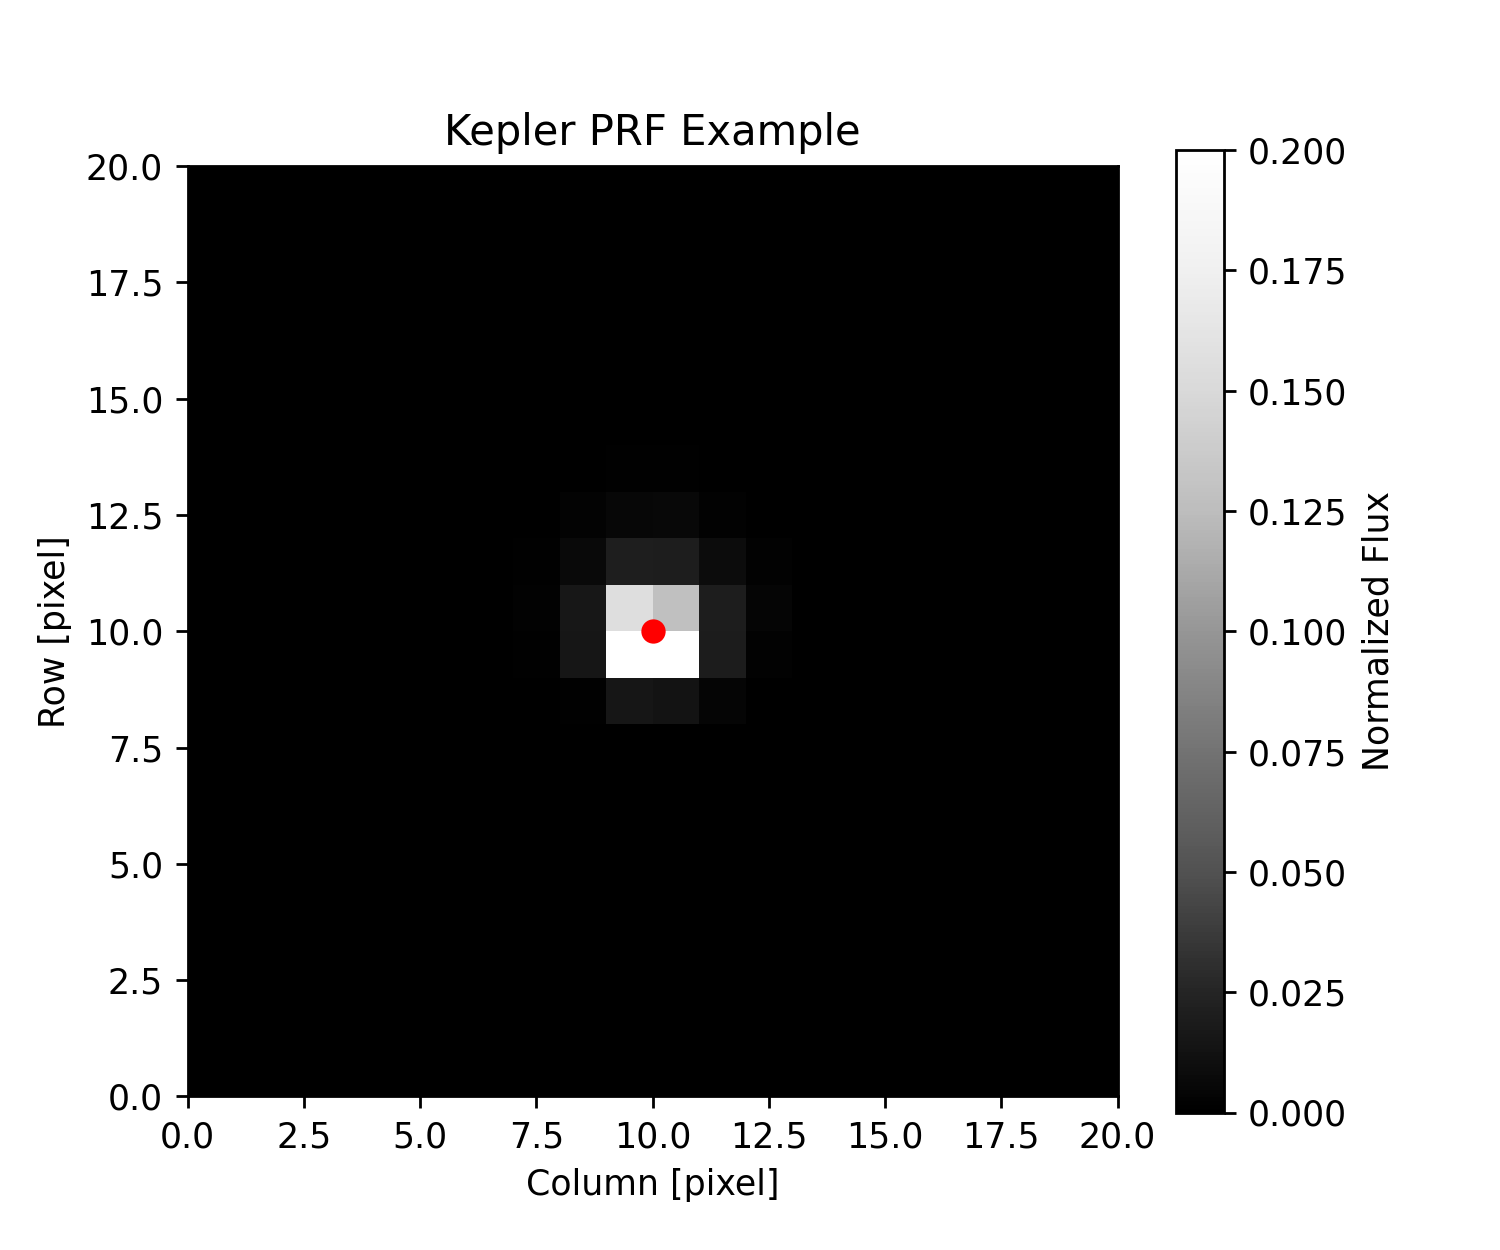
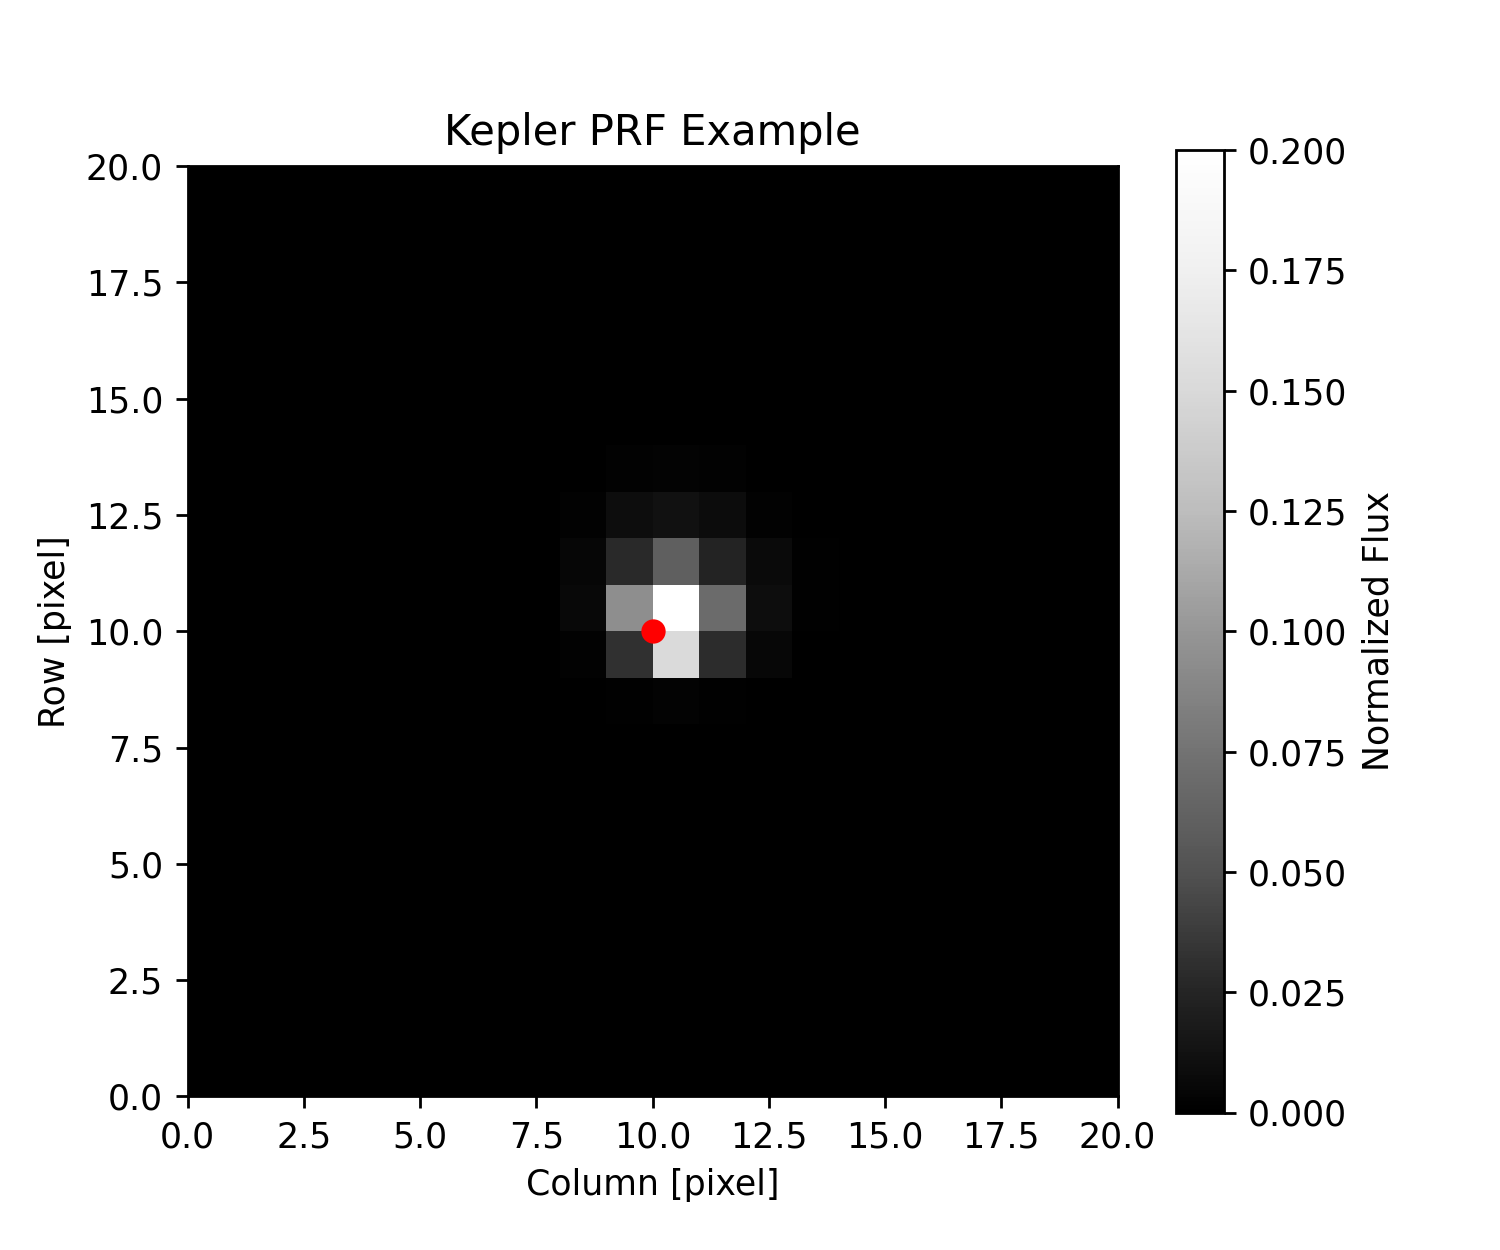
update pixel position

Changed region(s): [[0.3987, 0.4056, 0.5213, 0.5616]]

diff --git a/tests/test_prf.py b/tests/test_prf.py
@@ -19,8 +19,8 @@ def test_prfs():
         shape = (21, 21)
         ar = prf.evaluate(targets=targets, origin=origin, shape=shape)
         R, C = np.mgrid[: ar.shape[1], : ar.shape[2]] + 0.5
-        assert np.isclose(np.average(R.ravel(), weights=ar[0].ravel()), 10, atol=0.05)
-        assert np.isclose(np.average(C.ravel(), weights=ar[0].ravel()), 10, atol=0.05)
+        assert np.isclose(np.average(R.ravel(), weights=ar[0].ravel()), 10.5, atol=0.05)
+        assert np.isclose(np.average(C.ravel(), weights=ar[0].ravel()), 10.5, atol=0.05)
         assert np.isclose(ar[0].sum(), 1)
         assert ar.shape == (1, *shape)
         if not is_github_actions():
@@ -34,7 +34,7 @@ def test_prfs():
                 vmax=0.2,
             )
             cbar = plt.colorbar(im, ax=ax)
-            ax.scatter(np.asarray(targets)[:, 1], np.asarray(targets)[:, 0], c="r")
+            #ax.scatter(np.asarray(targets)[:, 1], np.asarray(targets)[:, 0], c="r")
             ax.set(
                 xlim=(origin[1], origin[1] + shape[1] - 1),
                 ylim=(origin[0], origin[0] + shape[0] - 1),

diff --git a/src/lkprf/prfmodel.py b/src/lkprf/prfmodel.py
@@ -210,8 +210,6 @@ class PRF(ABC):
             np.asarray(cdelt2p),
         )
         PRFdata /= PRFdata.sum(axis=(1, 2))[:, None, None]
-        # PRFcol = np.arange(0.5, np.shape(PRFdata[0])[1] + 0.5)
-        # PRFrow = np.arange(0.5, np.shape(PRFdata[0])[0] + 0.5)
 
         PRFcol = np.arange(0, np.shape(PRFdata[0])[1] + 0)
         PRFrow = np.arange(0, np.shape(PRFdata[0])[0] + 0)
@@ -219,6 +217,10 @@ class PRF(ABC):
         # Shifts pixels so it is in pixel units centered on 0
         PRFcol = (PRFcol - np.size(PRFcol) / 2) * cdelt1p[0]
         PRFrow = (PRFrow - np.size(PRFrow) / 2) * cdelt2p[0]
+
+        PRFcol += 0.5
+        PRFrow += 0.5
+        
         (
             self.PRFrow,
             self.PRFcol,

diff --git a/src/lkprf/__init__.py b/src/lkprf/__init__.py
@@ -4,7 +4,7 @@ import logging
 
 PACKAGEDIR = os.path.abspath(os.path.dirname(__file__))
 
-__version__ = "1.0.1"
+__version__ = "1.0.2"
 logger = logging.getLogger("lkprf")
 
 from .data import *  # noqa
